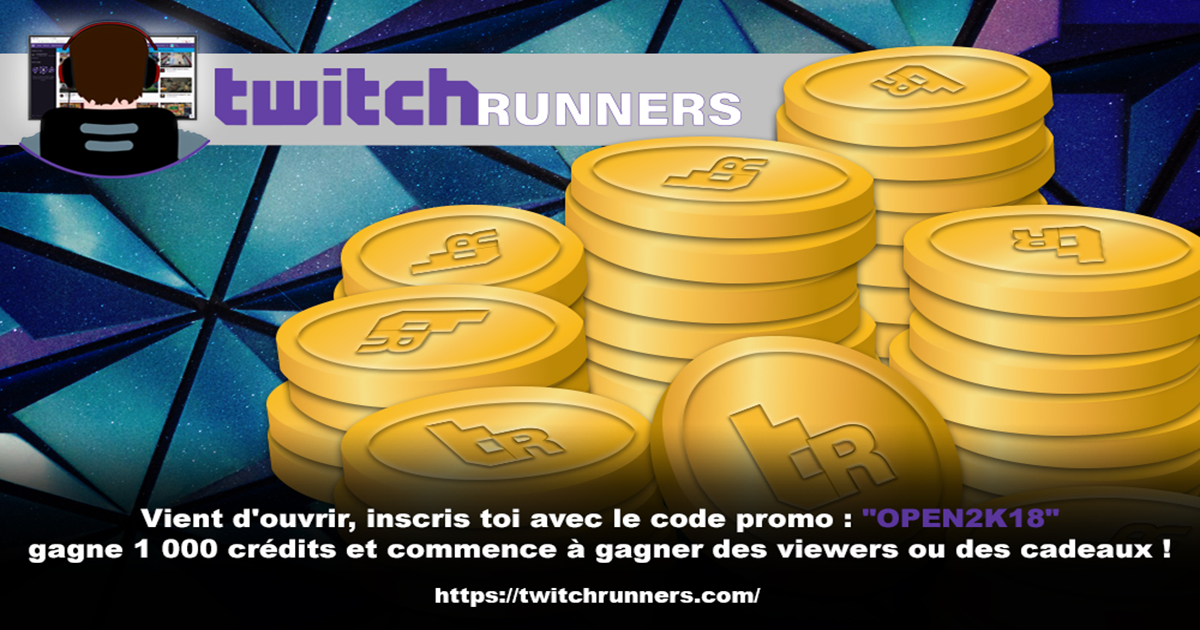
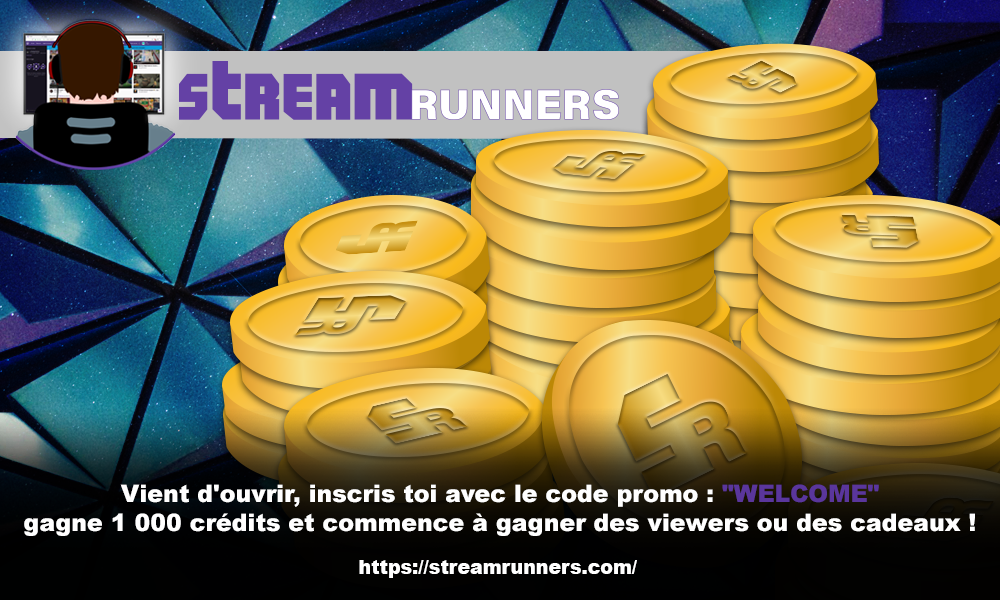
Annonce label

diff --git a/app.ts b/app.ts
@@ -35,6 +35,7 @@ var giveawayRouter = require('./routes/giveaway');
 var couponRouter = require('./routes/coupon');
 var pointsRouter = require('./routes/points');
 var watchRouter = require('./routes/watch');
+var shopRouter = require('./routes/shop');
 
 //App
 var app = express();
@@ -166,12 +167,12 @@ createConnection().then(async () => {
     //Routes
     app.use('/', indexRouter);
     app.use('/case', caseRouter);
-    //   app.use('/shop', shopRouter);
     app.use('/parrainage', parrainageRouter);
     app.use('/giveaway', giveawayRouter);
     app.use('/coupon', couponRouter);
     app.use('/points', pointsRouter);
     app.use('/watch', watchRouter);
+    app.use('/shop', shopRouter);
 
     app.get("/auth/twitch", passport.authenticate("twitch"));
     app.get("/auth/twitch/callback", passport.authenticate("twitch", {failureRedirect: "/"}), function (req, res) {

diff --git a/routes/shop.ts b/routes/shop.ts
@@ -8,16 +8,13 @@ import {Product} from "../database/entity/Product";
 
 router.get('/', async function (req: Express.Request, res: Response) {
 
-    if (req.isUnauthenticated()) {
-        return res.redirect("/");
+    if (req.isAuthenticated()) {
+
+        res.render("shop", {title: "StreamRunners - Boutique", req, hostname: process.env.HOSTNAME});
     }
-
-    res.render("shop", {
-        title: "TwitchRunner - Boutique",
-        req,
-        products: JSON.stringify(await Product.getAllProducts())
-    });
-
+    else {
+        res.redirect("/");
+    }
 });
 
 module.exports = router;

diff --git a/routes/points.ts b/routes/points.ts
@@ -7,7 +7,7 @@ import {Response} from 'express';
 
 router.get('/', async function (req: Express.Request, res: Response) {
 
-    res.render("points", {title: "TwitchRunner - Points", req});
+    res.render("points", {title: "StreamRunners - Points", req});
 
 });
 
